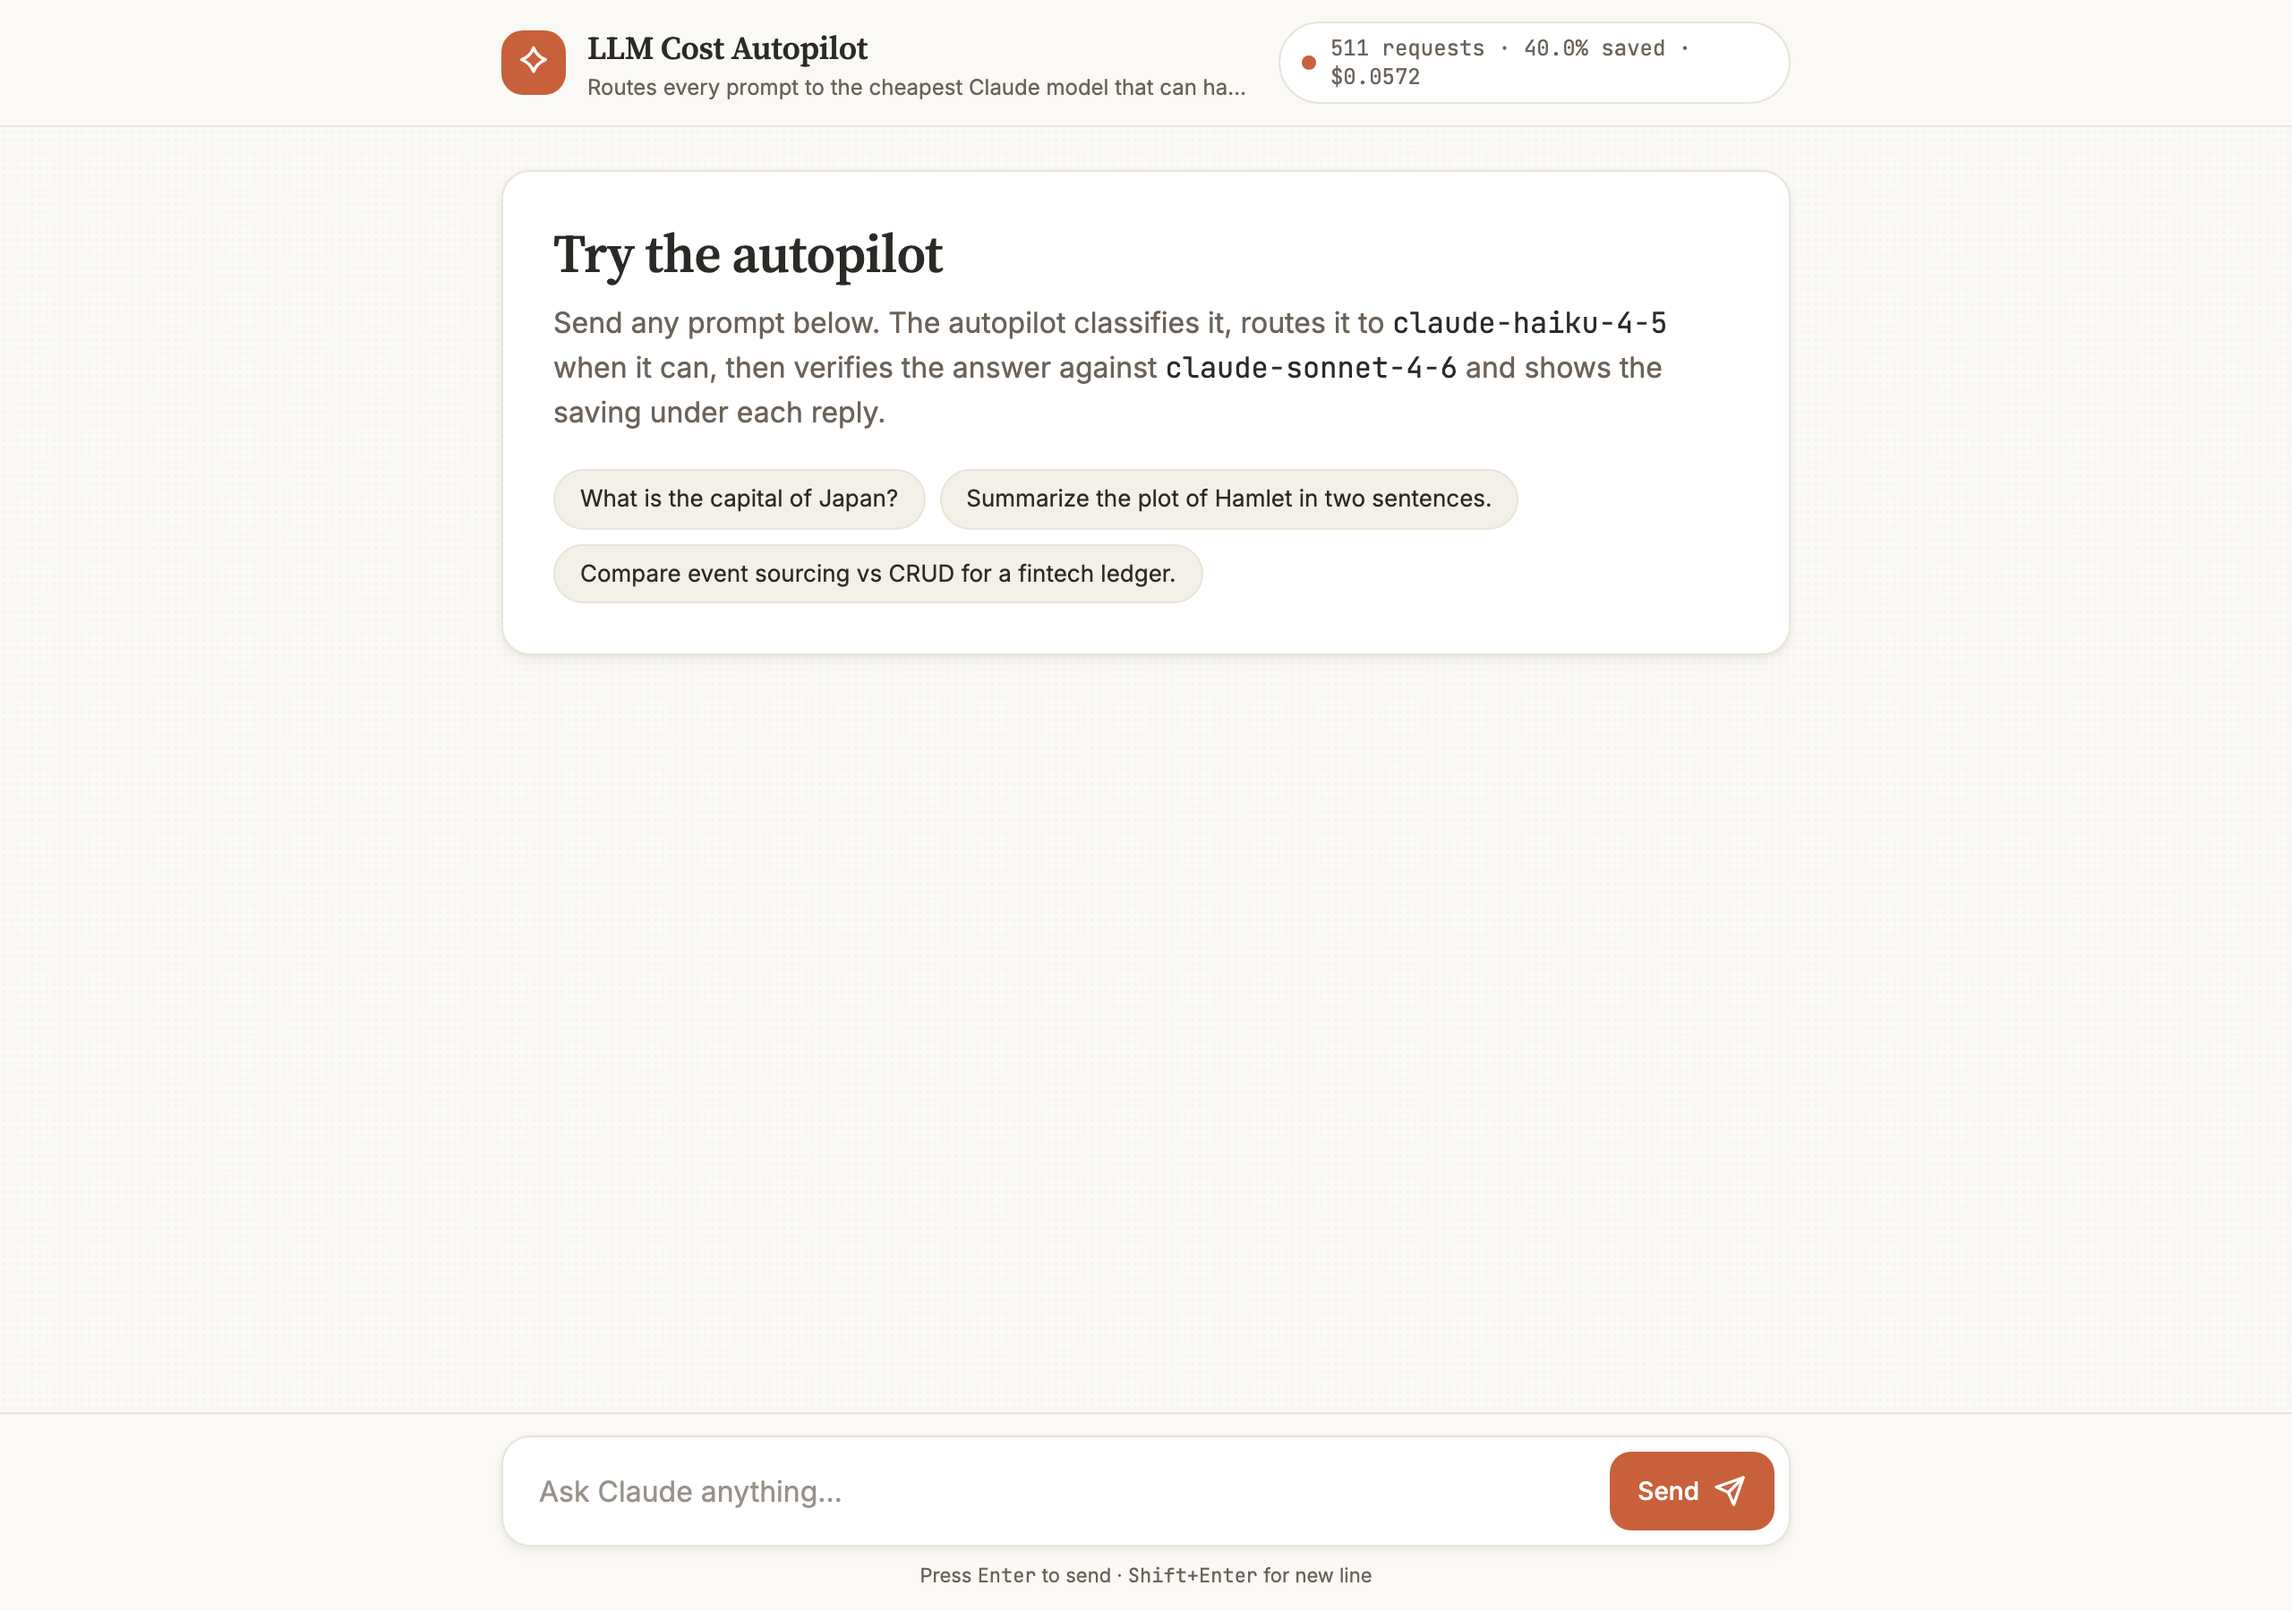
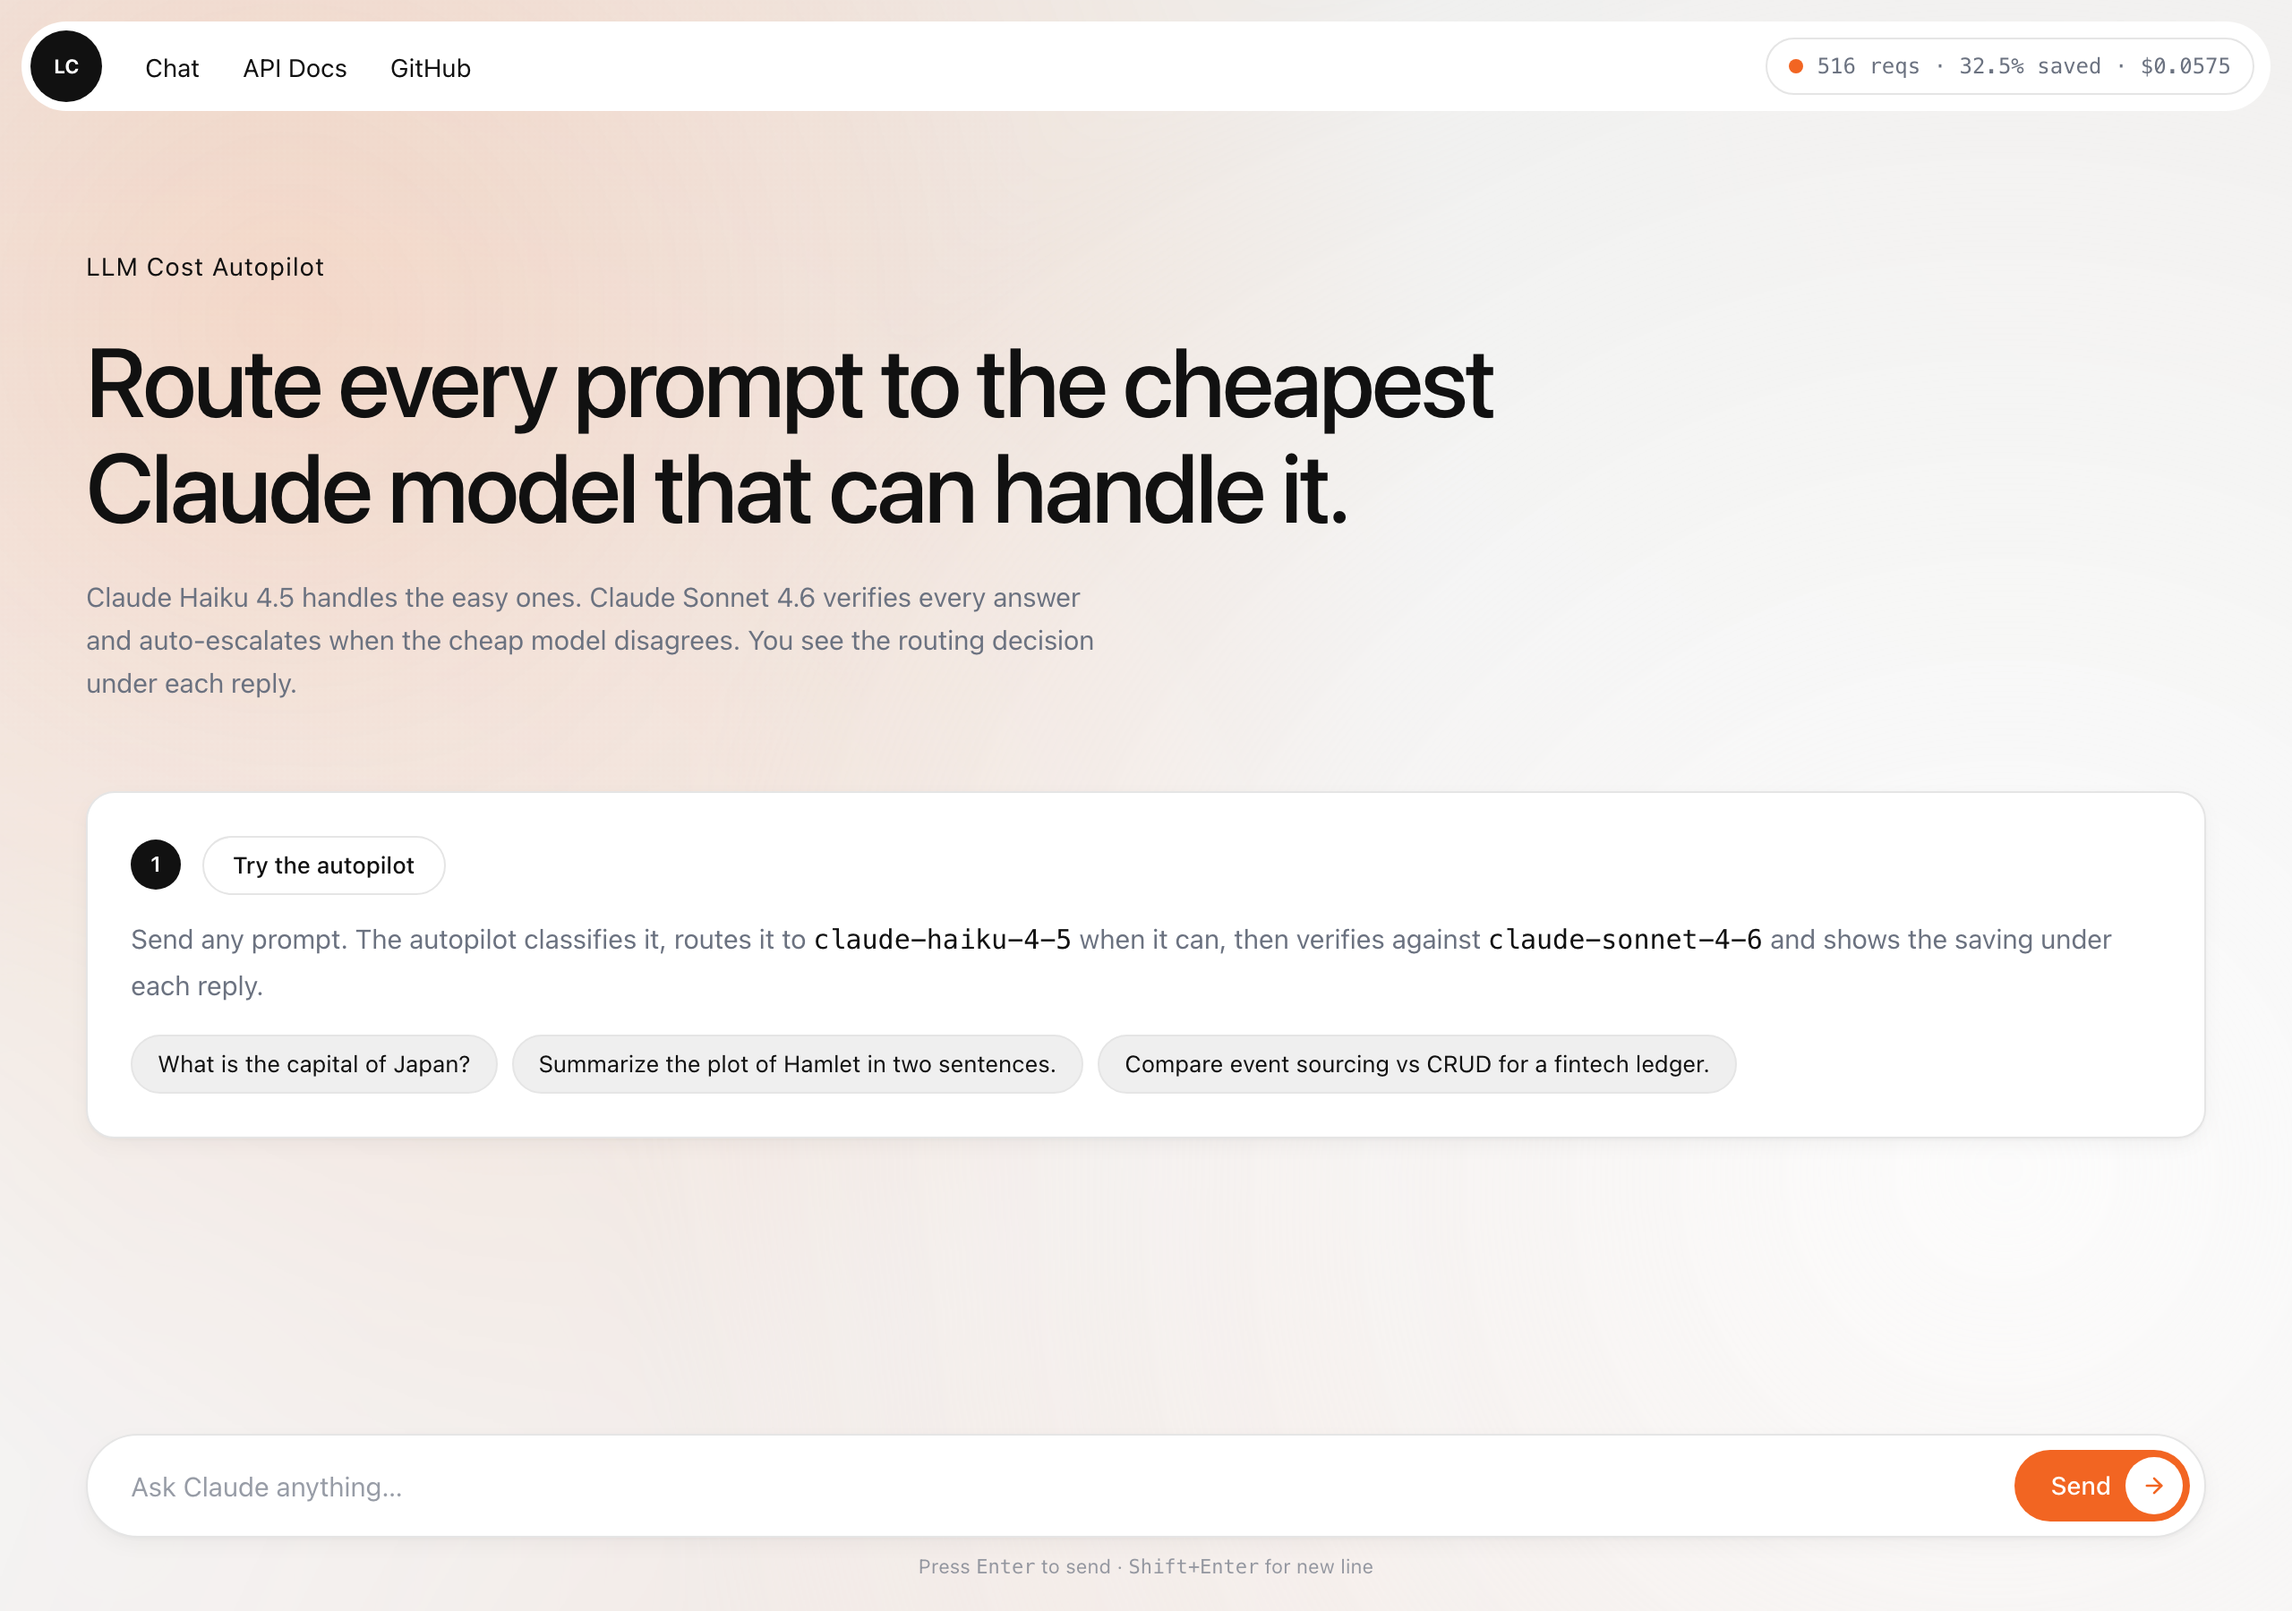
ui: remove 'Powered by Claude' from header + mobile menu
Two instances removed:
- desktop header: the <span> next to the stats pill
- mobile menu: the small status badge above the nav links

Header now shows just the stats pill on the right side at desktop
sizes. Mobile menu starts directly with the nav links.

diff --git a/static/index.html b/static/index.html
@@ -181,9 +181,8 @@
         <li><a href="https://github.com/Deadshot1831/LLM-Cost-Autopilot" target="_blank" rel="noopener" class="text-[14px] text-ink hover:text-muted transition-colors duration-300">GitHub</a></li>
       </ul>
     </div>
-    <!-- RIGHT: live stats pill + status (desktop only) -->
+    <!-- RIGHT: live stats pill (desktop only) -->
     <div class="hidden md:flex items-center gap-3 pr-1">
-      <span class="hidden lg:inline text-[13px] text-muted">Powered by Claude</span>
       <div id="stats-pill" class="inline-flex items-center gap-2 px-3 py-1.5 rounded-full border border-line bg-white mono text-[12px] text-muted" role="status" aria-live="polite">
         <span class="w-2 h-2 rounded-full bg-orange" aria-hidden="true"></span>
         <span id="stats-text">loading…</span>
@@ -203,10 +202,6 @@
 <div id="mobile-menu" class="md:hidden fixed inset-0 z-50 pointer-events-none" aria-hidden="true">
   <div id="menu-backdrop" class="absolute inset-0 bg-black/60 opacity-0 transition-opacity duration-500"></div>
   <div id="menu-sheet" class="absolute left-0 right-0 bottom-0 mx-3 mb-3 bg-white rounded-2xl p-6 translate-y-full transition-transform duration-500" style="transition-timing-function: cubic-bezier(0.32,0.72,0,1);">
-    <div class="inline-flex items-center gap-1.5 text-[12px] text-muted border border-line rounded-full px-3 py-1 mb-6">
-      <span class="w-1.5 h-1.5 rounded-full bg-orange"></span>
-      Powered by Claude
-    </div>
     <ul class="space-y-3 mb-6">
       <li><a href="#" class="text-[28px] leading-[32px] font-medium text-ink">Chat</a></li>
       <li><a href="/docs" class="text-[28px] leading-[32px] font-medium text-ink">API Docs</a></li>
